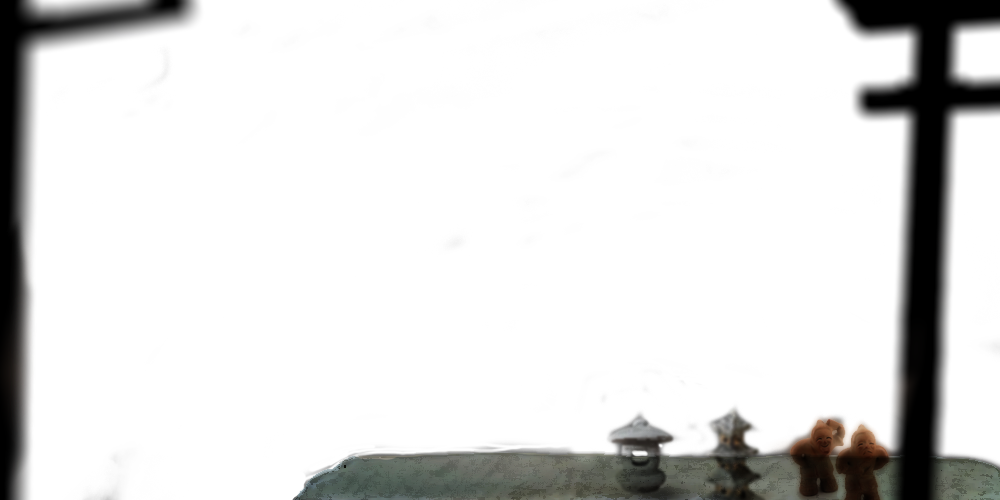
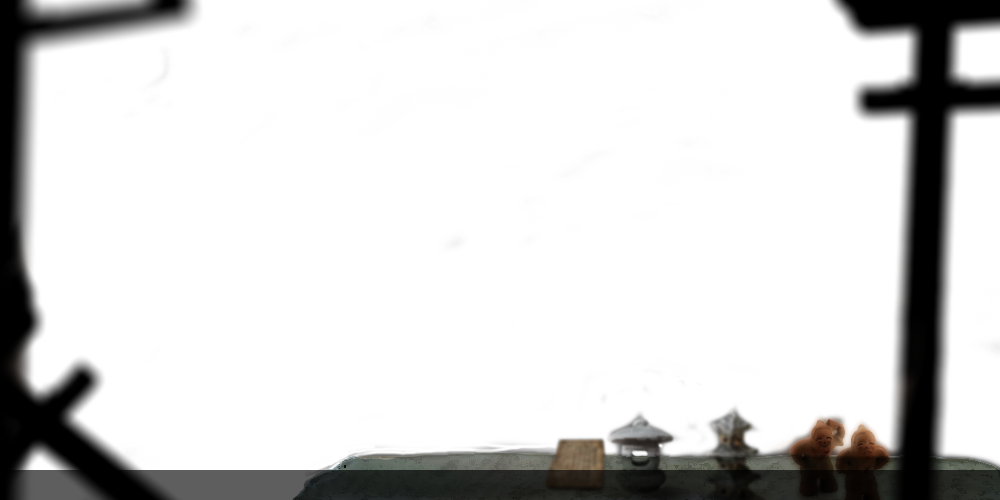
Fog added. Hotspot system working as intended

Changed region(s): [[0.0, 0.72, 0.899, 1.0], [0.0, 0.54, 0.062, 0.72], [0.93, 0.93, 1.0, 1.0]]

diff --git a/scripts/hotspot.js b/scripts/hotspot.js
@@ -1,0 +1,67 @@
+//Hotspot system
+var canvas6 = document.getElementById("canvas6")
+var ctx = canvas6.getContext("2d");
+canvas6.width = 1000
+canvas6.height = 500
+ctx.font='16px verdana'
+ctx.fillStyle='#0bf631'
+ctx.textAlign = "center"
+var cw = canvas6.width
+var ch = canvas6.height
+function reOffset() {
+  var BB = canvas6.getBoundingClientRect()
+  offsetX = BB.left
+  offsetY = BB.top
+}
+var offsetX, offsetY
+reOffset()
+window.onscroll = function (e) {
+  reOffset();
+};
+window.onresize = function (e) {
+  reOffset();
+};
+var hotspots = [
+  { x: 507, y: 141, radius: 40, tip: "A small ray of light filters through the rock, illuminating an old stone balanced buddha." },
+  { x: 734, y: 458, radius: 20, tip: "It is a small stone pagoda. Looks very old." },
+  { x: 424, y: 172, radius: 10, tip: "A wooden Daruma doll representing the founder of Zen Buddhism" },
+  { x: 445, y: 175, radius: 10, tip: '"At the end of the day I look for a place to sleep under the bright stars, waiting for a new awakening."' },
+  { x: 507, y: 226, radius: 20, tip: "A small stone platform. It has a Yin-Yang symbol engraved" },
+  { x: 844, y: 162, radius: 20, tip: "A mineral lodged in the rock. It's very bright!" },
+  { x: 880, y: 228, radius: 20, tip: "It looks like a little sleeping buddha." },
+  { x: 582, y: 459, radius: 20, tip: 'An old manuscript: "The first thing I do every day is appreciate the sunlight." The following pages are missing...' },
+  { x: 178, y: 173, radius: 40, tip: '"Bottomless Development Well". It\'s scary ...'},
+  { x: 276, y: 138, radius: 14, tip: "Into the well: Alba, Adriá, Christian, David, Íñigo, Ivan C, Ivan U, Jesús, Mark, Pablo, Raquel, Sara, Sergio, Víctor, Adrián" },
+];
+draw();
+canvas6.addEventListener('mousemove', (e) => {
+     handleMouseMove(e)
+})
+function draw() {
+  for (var i = 0; i < hotspots.length; i++) {
+    var h = hotspots[i];
+    ctx.beginPath();
+    ctx.arc(h.x, h.y, h.radius, 0, Math.PI * 2)
+    ctx.closePath();
+    ctx.stroke();
+  }
+}
+function handleMouseMove(e) {
+  // tell the browser we're handling this event
+  e.preventDefault();
+  e.stopPropagation();
+  mouseX = parseInt(e.clientX - offsetX)
+  mouseY = parseInt(e.clientY - offsetY)
+  ctx.clearRect(0, 0, cw, ch)
+  draw()
+  for (var i = 0; i < hotspots.length; i++) {
+    var h = hotspots[i]
+    var dx = mouseX - h.x
+    var dy = mouseY - h.y
+    if (dx * dx + dy * dy < h.radius * h.radius) {
+      ctx.fillText(h.tip, canvas6.width/2, canvas6.height/1.02);
+    }
+  }
+}
+
+

diff --git a/scripts/utilities.js b/scripts/utilities.js
@@ -57,24 +57,75 @@ function collision(obj1, obj2){
 		
 		if (!collidesArr.includes(obj2.value)){
 			collidesArr.push(obj2.value)
+			if (collidesArr.length === 3){
+				checkOrder(collidesArr)	
+			}
 		}
 		// console.log(`collides with ${obj2.name}`)
 		console.log(collidesArr)
 	}	
 }
+function checkOrder(arr){
+	if (arr[0] < arr[1] && arr[1] < arr[2]){
+		canvas7.style.visibility='visible'
+		} else {
+		collidesArr.splice(0, arr.length)
+	   }
+	}
+// function resetCollidesArr(){
+// 	collidesArr = []
+// }
+// function drawEnd(){
+// 	ctx7.drawImage(endImage, canvas7.width, canvas7.height)
+// }
 
-let uniqueCollisionsArr = []
+const canvas7 = document.getElementById('canvas7')
+const ctx7 = canvas5.getContext('2d')
+// canvas7.width = 1000
+// canvas7.height = 500	
+// const endImage = new Image()
+// endImage.src = '../images/background.png'
 
 
-function onlyUnique(value, index, self) {
-	return self.indexOf(value) === index;
-  }
+
+
+// const isSorted = arr => arr.every((v,i,a) => !i || a[i-1] <= v);
+// const checkIfSorted = isSorted(collidesArr)
+
+// function winOrReset(arr, param){
+// 	if (param == true) {
+// 		console.log('you win')
+		
+// 	} else {
+// 		arr = [] //hacer reset de collides arr
+		
+// 	}
+// }
+
+// //console.log(checkIfSorted)
+// winOrReset(collidesArr, checkIfSorted)
+
+
+
+
+
+// function checkOrder(arr){
+// 	if (arr[0] > arr[1] && arr[1] > arr[2]){
+// 	console.log("you win")
+// }
+// }
+
+// checkOrder(collidesArr)
+
+// function onlyUnique(value, index, self) {
+// 	return self.indexOf(value) === index;
+//   }
                                          
-  // usage example:
-//   var a = ['a', 1, 'a', 2, '1'];
-  let unique = collidesArr.filter(onlyUnique);
+//   // usage example:
+// //   var a = ['a', 1, 'a', 2, '1'];
+//   let unique = collidesArr.filter(onlyUnique);
   
-  console.log(unique); // ['a', 1, 2, '1']
+//   console.log(unique); // ['a', 1, 2, '1']
 
 
 

diff --git a/scripts/objects.js b/scripts/objects.js
@@ -76,13 +76,13 @@ class GameObject {
 	}
 	draw(){
 		ctx2.fillStyle = 'green'
-		ctx2.fillRect(this.x, this.y, this.width, this.height, this.name, this.image, this.picture) //to test sprite alignment VS rectangle alignment
-		//ctx2.drawImage(this.image, this.x, this.y, this.width, this.height)
+		//ctx2.fillRect(this.x, this.y, this.width, this.height, this.name, this.image, this.picture) //to test sprite alignment VS rectangle alignment
+		ctx2.drawImage(this.image, this.x, this.y, this.width, this.height)
 	}
 }
-const objectTest = new GameObject(222, 222, 60, 80, "xObject", "../images/vase.png", 30)
-const objectTest2 = new GameObject(750, 220, 50, 70, "yObject", "../images/vase.png", 60)
-const objectTest3 = new GameObject(500, 200, 40, 50, "zObject", "../images/vase.png", 90)
+const objectTest = new GameObject(150, 300, 60, 80, "xObject", "../images/emptyobjt.png", 30)
+const objectTest2 = new GameObject(800, 200, 50, 70, "yObject", "../images/emptyobjt.png", 60)
+const objectTest3 = new GameObject(480, 200, 40, 50, "zObject", "../images/emptyobjt.png", 90)
 
 
 

diff --git a/game.html b/game.html
@@ -13,18 +13,19 @@
 		<canvas id="canvas1"></canvas>
 		<canvas id="canvas2"></canvas>
 		<canvas id="canvas3"></canvas>
+		<canvas id="canvas3trigger1"></canvas>
 		<canvas id="canvas4"></canvas>
 		<canvas id="canvas5"></canvas>
-		<canvas id="canvas6"></canvas>
+		<canvas id="canvas6" width=1000 height=500></canvas>
+		<canvas id="canvas7"></canvas>
 		<section id="messages"></section>
 	</div>
-
+	
 	<script src="scripts/setup.js"></script>
 	<script src="scripts/player.js"></script>
 	<script src="scripts/objects.js"></script>
 	<script src="scripts/utilities.js"></script>
-	<script src="scripts/fog.js"></script>
+	<script src="scripts/hotspot.js"></script>
 	
-
 </body>
 </html>

diff --git a/CSS/style.css b/CSS/style.css
@@ -22,12 +22,35 @@ canvas {
 	left: 0;		
 }
 
+
+
 #canvas5 {
 	background: url('/images/first-plane.png')
 }
 
 #canvas4 {
-	opacity:0.3;
+	opacity:0.9;
+	background: url('/images/colorfog.png') repeat 0 0;
+  	width: 100%;
+  	margin: 0;
+  	height: 500px;
+  	-webkit-animation: slide 20s linear infinite;
 }
 
 
+
+@-webkit-keyframes slide {
+    from { background-position: 0 0; }
+    to { background-position: -1000px 0; }
+}
+
+
+#canvas7 {
+	visibility: hidden;
+	background: url('../images/end-canvas.gif')
+}
+
+#canvas3trigger3 {
+	visibility: hidden;
+	background: url('../images/90.png')
+}

diff --git a/scripts/setup.js b/scripts/setup.js
@@ -24,6 +24,7 @@ const ctx5 = canvas5.getContext('2d')
 canvas5.width = 1000
 canvas5.height = 500
 
+
 //Global variables
 const grid = 80
 let keys = []
